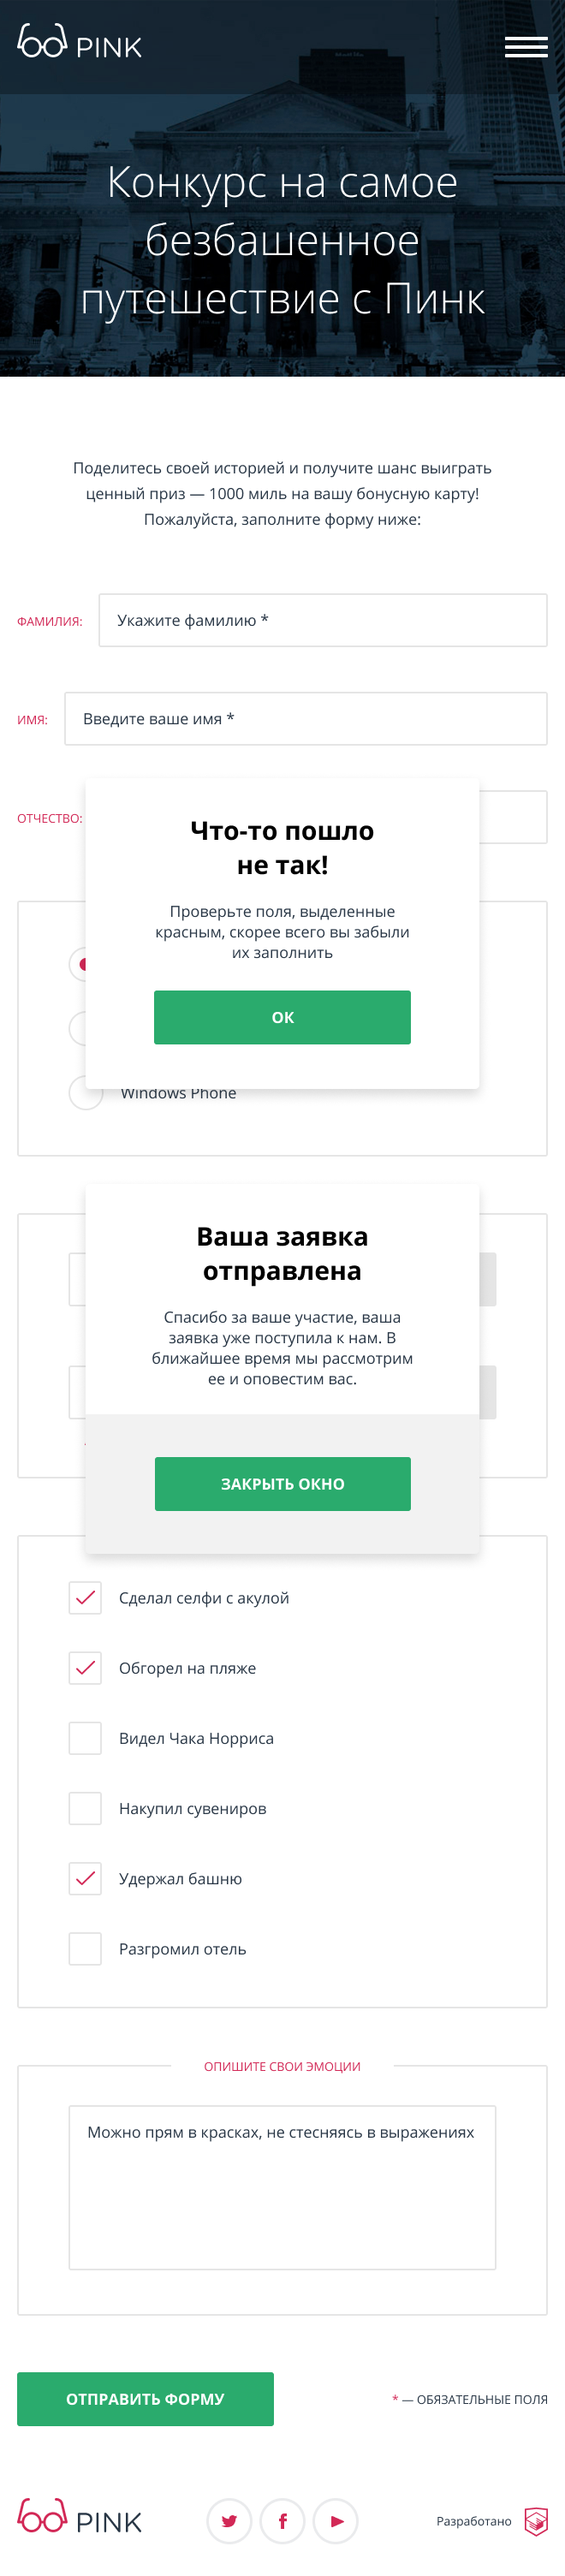
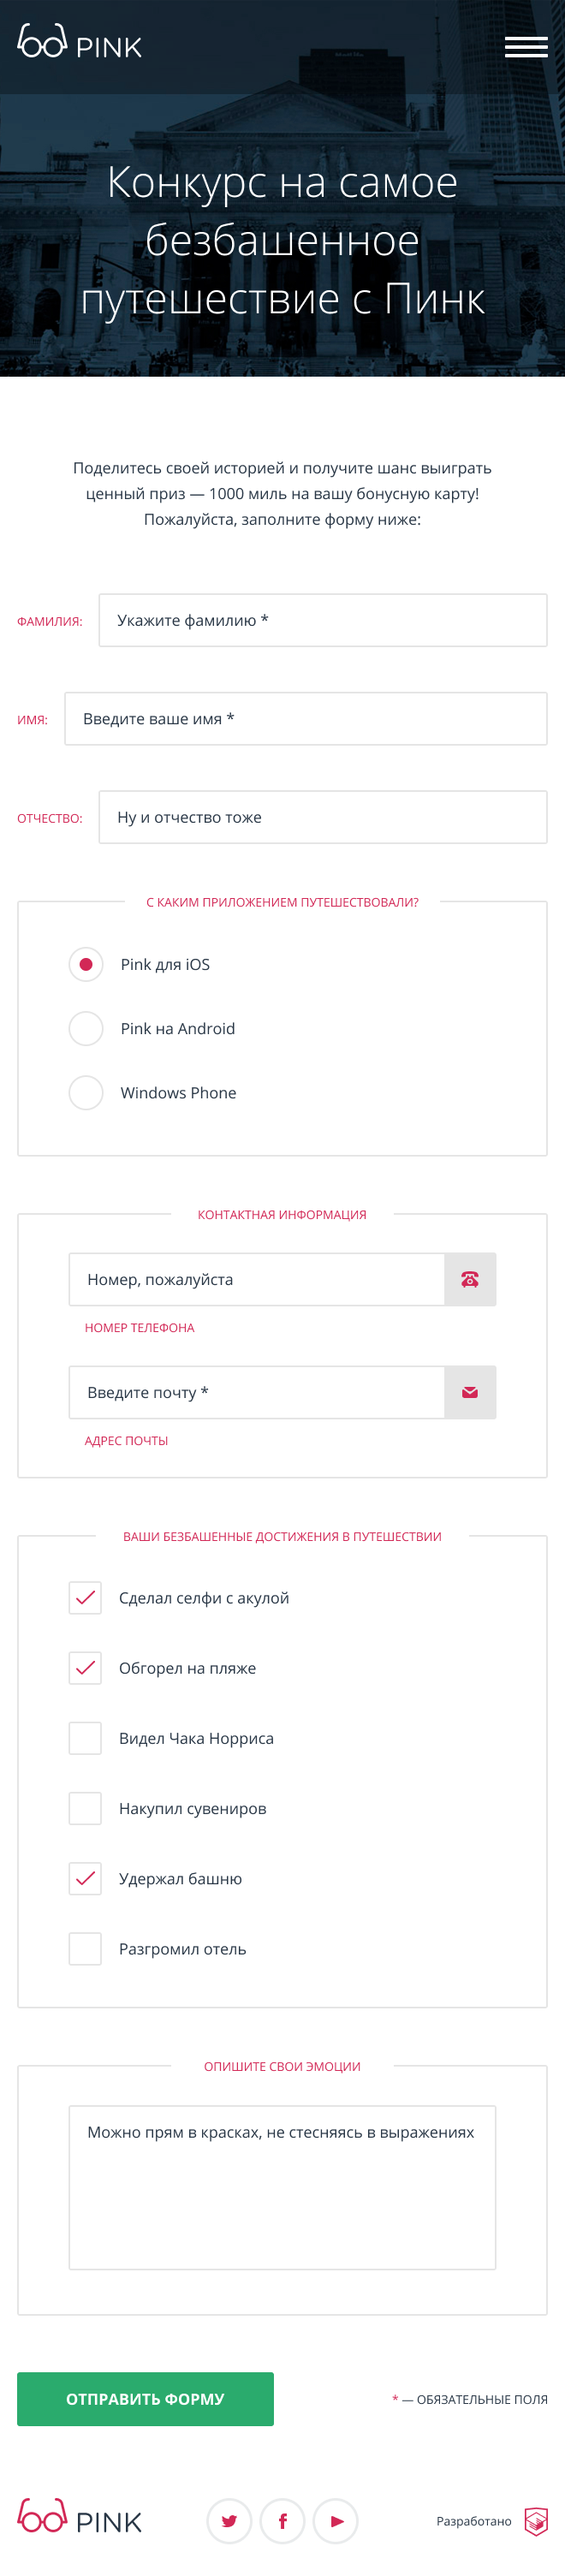
fix: line-height for form-tablet

diff --git a/source/sass/blocks/form.scss b/source/sass/blocks/form.scss
@@ -14,7 +14,7 @@
 }
 
 .form__fieldset {
-  padding: 40px 0 42px;
+  padding-bottom: 42px;
   border: none;
   margin-top: 0;
   margin-bottom: 0;
@@ -44,6 +44,8 @@
 }
 
 .form__fieldset--name {
+  padding-top: 37px;
+
   @media #{$tablet-min} {
     order: -4;
     border: none;
@@ -58,6 +60,7 @@
 }
 
 .form__fieldset--app {
+  padding-top: 40px;
   padding-bottom: 38px;
 
   @media #{$tablet-min} {
@@ -72,7 +75,7 @@
 }
 
 .form__fieldset--contacts {
-  padding-top: 34px;
+  padding-top: 32px;
 
   @media #{$tablet-min} {
     order: -2;
@@ -86,6 +89,7 @@
 }
 
 .form__fieldset--achievements {
+  padding-top: 40px;
 
   @media #{$tablet-min} {
     order: -1;
@@ -98,6 +102,8 @@
 }
 
 .form__fieldset--textarea {
+  padding-top: 40px;
+
   @media #{$tablet-min} {
     padding-bottom: 55px;
     margin-bottom: 65px;
@@ -167,7 +173,7 @@
   width: 100%;
   color: $basic-pink;
   font-size: 14px;
-  line-height: 1.3;
+  line-height: 1.29;
   font-weight: normal;
   text-align: center;
   text-transform: uppercase;
@@ -219,7 +225,7 @@
 }
 
 .form__fieldset-item--name {
-  margin-bottom: 20px;
+  margin-bottom: 17px;
 
   @media #{$tablet-min} {
     display: flex;
@@ -245,7 +251,7 @@
 }
 
 .form__fieldset-item--contacts {
-  margin-bottom: 22px;
+  margin-bottom: 17px;
 
   @media #{$tablet-min} {
     display: flex;
@@ -272,12 +278,13 @@
 }
 
 .form__label-text {
-  margin-bottom: 9px;
+  margin-bottom: 6px;
   margin-left: 23px;
   display: block;
   color: $basic-pink;
   font-size: 14px;
   text-transform: uppercase;
+  line-height: 2.14;
 }
 
 .form__label-text--name {
@@ -299,6 +306,7 @@
   padding-left: 70px;
   padding-top: 8px;
   padding-bottom: 8px;
+  line-height: 1.67;
 
   @media #{$tablet-min} {
     margin-left: 115px;
@@ -352,6 +360,7 @@ input {
   padding-top: 5px;
   padding-bottom: 5px;
   padding-left: 57px;
+  line-height: 1.67;
 }
 
 .form__label-checkbox::before {
@@ -394,7 +403,7 @@ input {
   border-radius: 1px;
   font-family: inherit;
   font-size: 18px;
-  line-height: 1.7;
+  line-height: 1.67;
 
   @media #{$mobile-max} {
     @include c280;
@@ -514,11 +523,13 @@ input {
 
 .form__button {
   margin-bottom: 35px;
+  line-height: 1.67;
 }
 
 .form__reference {
   margin: 0;
   font-size: 14px;
+  line-height: 2.14;
   text-align: center;
   text-transform: uppercase;
 

diff --git a/source/sass/blocks/page-headline.scss b/source/sass/blocks/page-headline.scss
@@ -58,6 +58,7 @@
   @media #{$tablet-min} {
     @include c620;
     font-size: 50px;
+    line-height: 1.36;
   }
 
   @media #{$desktop-min} {

diff --git a/source/sass/blocks/page.scss b/source/sass/blocks/page.scss
@@ -33,5 +33,5 @@
 }
 
 .page__main-form {
-  padding-bottom: 20px;
+  padding-bottom: 15px;
 }
